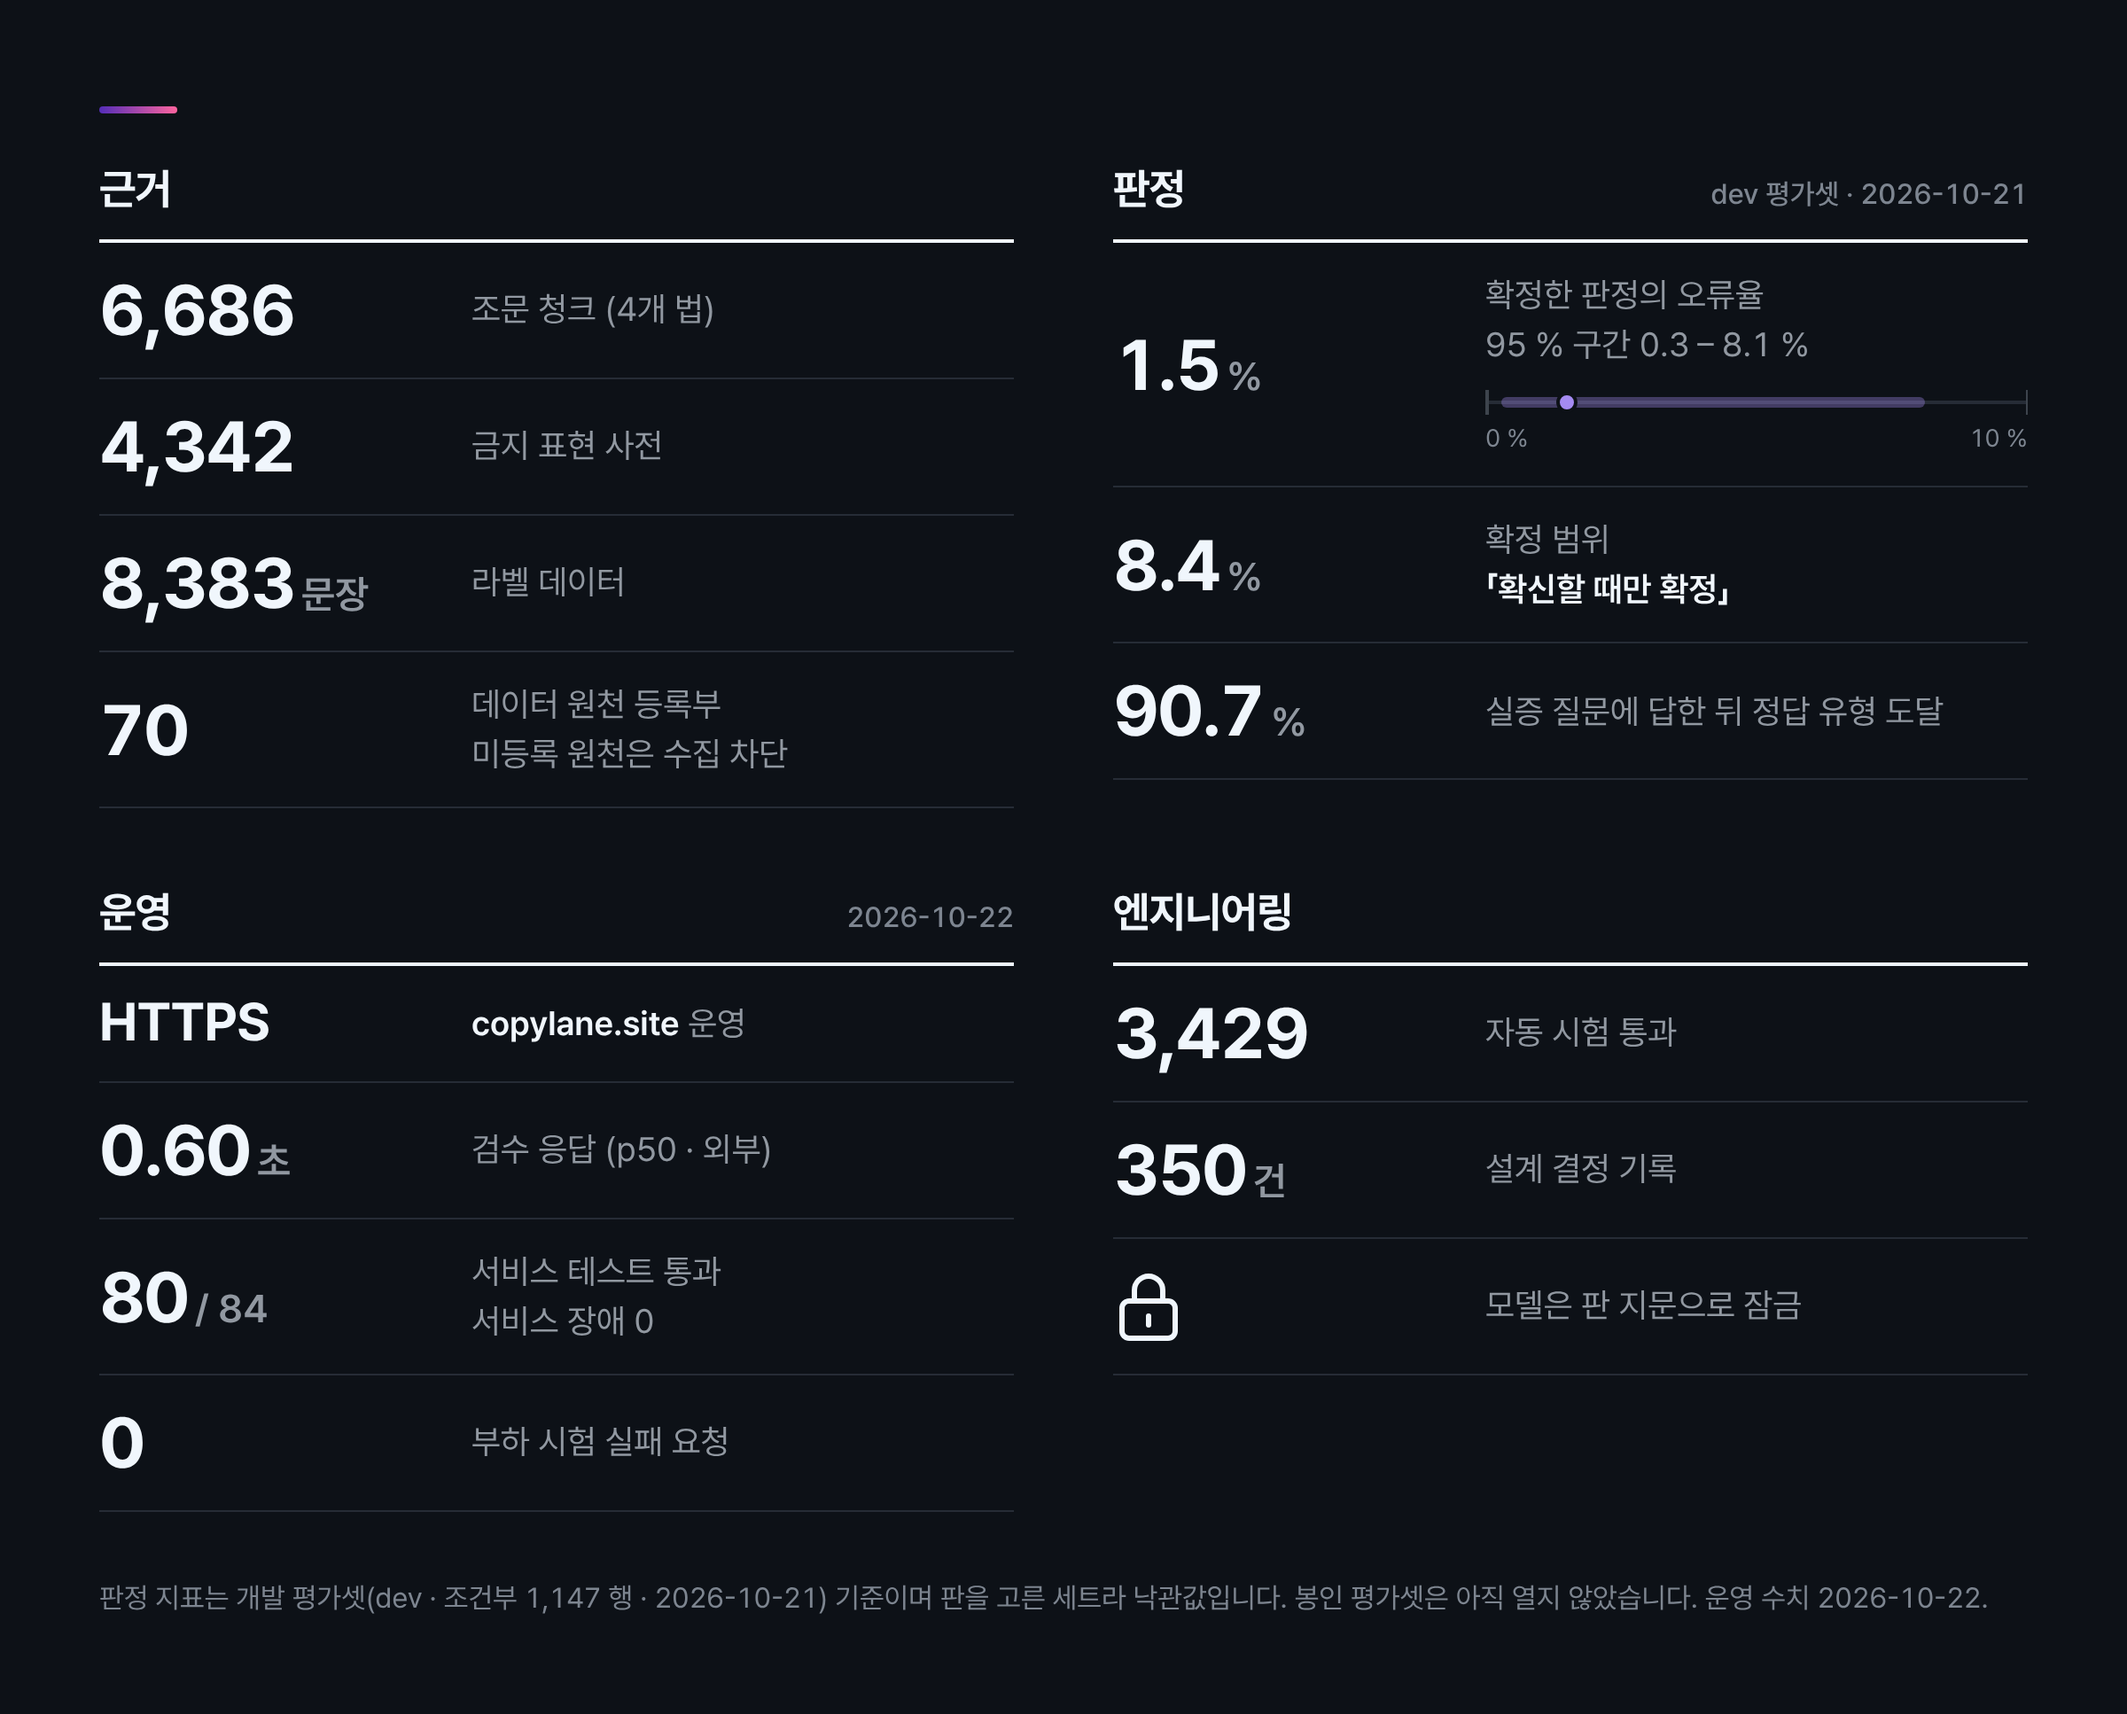
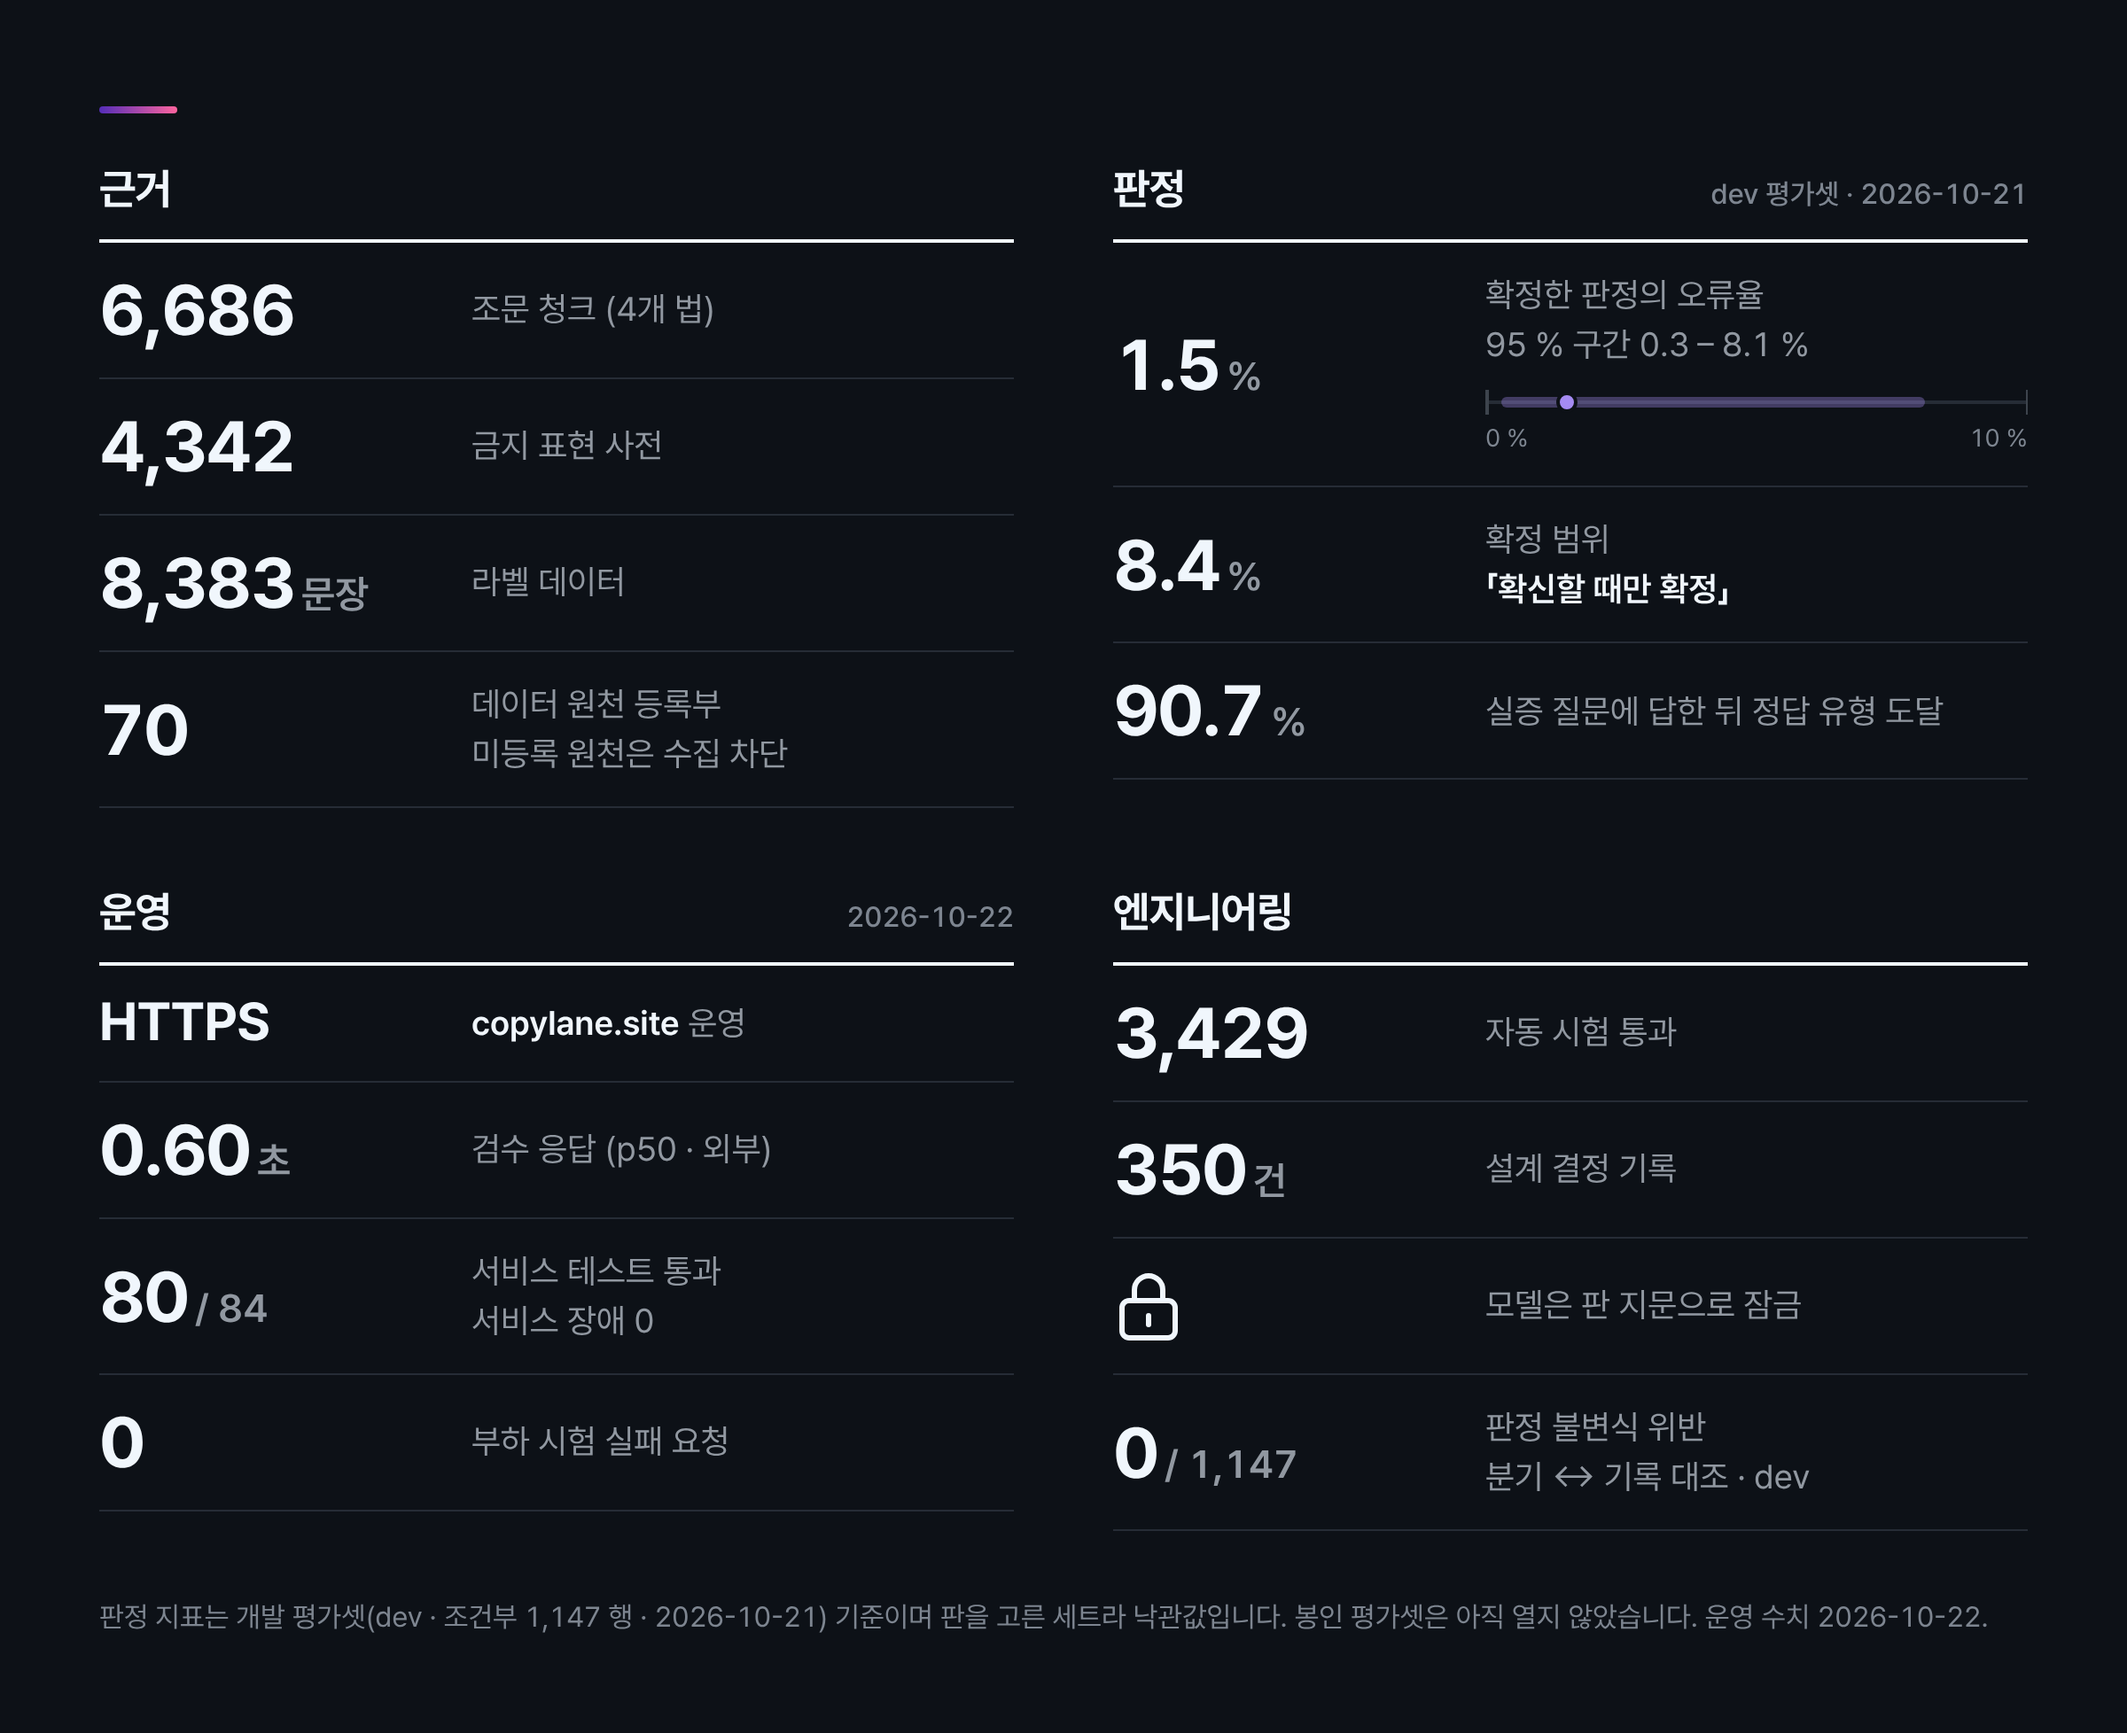
README — 신뢰 설계(환각 제어 · fail-closed · 측정 규율 · 시행일) 절 · 위험도 R0~R3 설명 · 법 확장 구조 · 숫자 그림에 불변식 줄

diff --git a/assets/readme/src/results.html b/assets/readme/src/results.html
@@ -62,6 +62,7 @@
       <div class="row"><div class="v">3,429</div><div class="d">자동 시험 통과</div></div>
       <div class="row"><div class="v">350<u>건</u></div><div class="d">설계 결정 기록</div></div>
       <div class="row"><div class="v lock"><svg width="40" height="44" viewBox="0 0 40 44" fill="none" stroke="currentColor" stroke-width="3" stroke-linecap="round" stroke-linejoin="round"><rect x="5" y="19" width="30" height="21" rx="4"/><path d="M12 19v-6a8 8 0 0 1 16 0v6"/><path d="M20 27.5v5"/></svg></div><div class="d">모델은 판 지문으로 잠금</div></div>
+      <div class="row"><div class="v">0<u>/ 1,147</u></div><div class="d">판정 불변식 위반<br>분기 ↔ 기록 대조 · dev</div></div>
     </section>
   </div>
 

diff --git a/README.md b/README.md
@@ -82,6 +82,49 @@
 - **고쳐 쓴 문장도 심사를 받습니다** — 자체 sLLM(Qwen3-4B + LoRA)이 고친 후보는 같은 판정 코어를 처음부터 다시 지나야 화면에 나옵니다.
 - **판정 경로는 외부 API 를 부르지 않습니다** — 출시 전 문구가 외부 AI 서비스로 나가지 않습니다. 외부 LLM(GPT)은 카피 생성의 후보 작성에만 씁니다.
 
+**위험도 R0 ~ R3** — 등급의 경계는 우리가 정하지 않고, 법이 정한 **처분 단계**가 긋습니다.
+
+| 등급 | 뜻 | 경계가 된 처분 |
+|:-:|---|---|
+| **R0** | 특이사항 없음 | — |
+| **R1** | 시정명령 위험 | 시정명령 |
+| **R2** | 업무정지 위험 | 업무 · 영업정지 (갈음 과징금 포함) |
+| **R3** | 영업 상실 위험 | 허가 취소 · 영업소 폐쇄 |
+
+<sub>등급은 2인이 서명한 제재표에서 하한으로 계산하고, 사전 · 인코더 중 높은 쪽을 씁니다. 징역 · 벌금 같은 형벌은 이 축에 얹지 않고 따로 표시합니다. 「통과」는 모든 문장이 확정이고 R0 일 때뿐입니다.</sub>
+
+---
+
+## 믿을 수 있게 만든 장치
+
+원칙은 말로 두지 않고 **코드 · 계약 · 시험이 강제하게** 했습니다. 아래는 모두 저장소 안의 위치를 가리킬 수 있는 장치입니다.
+
+**판정 — AI 가 지어내지 못하게**
+
+| 원칙 | 무엇이 그것을 지키나 |
+|---|---|
+| **판정은 생성하지 않는다** | 판정 경로에는 생성형 LLM 이 없습니다 — 사전 · 인코더 · 규칙만 씁니다. 판정 경로가 외부 호출 층을 import 하면 시험이 실패합니다 (`tests/test_judge_path_offline.py`) |
+| **근거 없는 판정은 응답이 될 수 없다** | 위험도를 올리려면 근거 조문 · 호가 붙어야 하고, 인코더만으로는 R1 을 넘지 못합니다 — 어기면 Pydantic 계약이 응답을 거부합니다 (`app/contracts.py`) |
+| **AI 가 쓴 문장은 다시 심사받는다** | 자체 sLLM 의 고쳐 쓰기도, GPT 의 카피 후보도 같은 판정 코어를 처음부터 다시 지나야 화면에 나옵니다 |
+| **입력에 없는 사실은 쓰지 못한다** | 카피 생성의 코드 필터가 입력에 없는 수치 · 인증 · 시험 사실 · 성분이 들어간 후보를 떨굽니다 (`app/routers/copygen/filters.py`) |
+
+**실패 — 없으면 없다고 말한다 (fail-closed)**
+
+| 원칙 | 무엇이 그것을 지키나 |
+|---|---|
+| **없음은 성공이 아니다** | DB · 엔진이 없으면 그럴듯한 결과 대신 503 · 501 을 냅니다. sLLM 이 없으면 후보를 지어내지 않습니다. 위반을 못 찾아도 통과가 아니라 보류입니다 |
+| **불변식이 판정을 지킨다** | 품목 · 사실 분기와 기록 판정이 어긋나면 운영에서는 보류로 내리고 시험에서는 거부합니다 — dev 1,147 행에서 불변식 위반 0, 분기를 접든 펼치든 같은지 본 668 쌍에서 어긋남 0 |
+
+**측정 · 추적 — 숫자를 믿을 수 있게**
+
+| 원칙 | 무엇이 그것을 지키나 |
+|---|---|
+| **평가셋으로 채점 규칙을 고르지 않는다** | 판을 고르는 dev 와 마지막에 한 번만 여는 봉인 평가셋(1,141 행)을 나눴고, 봉인셋은 정해진 절차 밖에서 열리지 않습니다 (`scripts/sealed_log.py`). 채택 조건은 측정 **전에** 고정합니다 |
+| **모자란 표본은 「측정 불가」** | 표본이 30 에 못 미치는 항목은 좋다고도 나쁘다고도 적지 않습니다 (D-40) |
+| **모든 수에 출처가 있다** | 수치는 [사실 원장](docs/00_사실원장.md) 한 곳에 측정 기기 · 조건과 함께, 판단은 [설계 결정](docs/00_설계결정기록.md) 350 건에 대안 · 기각 이유와 함께 남깁니다. 모델은 판 지문으로 잠가 같은 판만 올라갑니다 |
+| **법의 시행일을 안다** | 공포됐지만 아직 시행 전인 조항(예: 식품등의 표시기준 2028-01-01 시행분)은 「시행 예정」 표시와 함께 싣고, 원문이 바뀌어 그 조항을 찾지 못하면 적재가 멈춥니다 (`preprocess/law_article.py`) |
+| **문구는 로그에 남지 않는다** | 광고 문구는 로그에 길이와 지문만 남기고, 판정 경로는 외부 AI 서비스를 부르지 않습니다 (`app/logging_conf.py`) — 출시 전 문구를 다루는 도구라서입니다 |
+
 ---
 
 ## 입구는 셋, 판정 기준은 하나
@@ -98,6 +141,8 @@
 | **C AI 광고 생성** | 지면에 앉히려는 사람 | 판정 결과와 함께 문구를 SNS 피드 · 상세페이지 · 배너 편집기에 얹고(확인이 필요한 문장은 표시), 칸을 고칠 때마다 다시 판정 |
 
 어디로 들어와도 **같은 법 · 같은 기준 · 같은 근거**로 잽니다. 기능이 늘어도 판정 기준은 한 곳에서만 바뀝니다.
+
+**법을 더하기 쉬운 구조** — 법마다 판정 노드를 따로 두고, 품목 → 적용 법은 라우팅 표(`LAW_SCOPE` · `LAW_OF_NODE` · `app/graph.py`)가 정합니다. 새 법은 이 표에 줄을 더하고 그 법의 노드 · 조문 · 제재표를 붙이는 일이라 기존 법의 판정을 건드리지 않습니다. 표와 노드가 어긋나면 앱이 시작하지 않습니다. 기획상 다음 확장 1순위는 의료기기 광고입니다.
 
 ---
 
